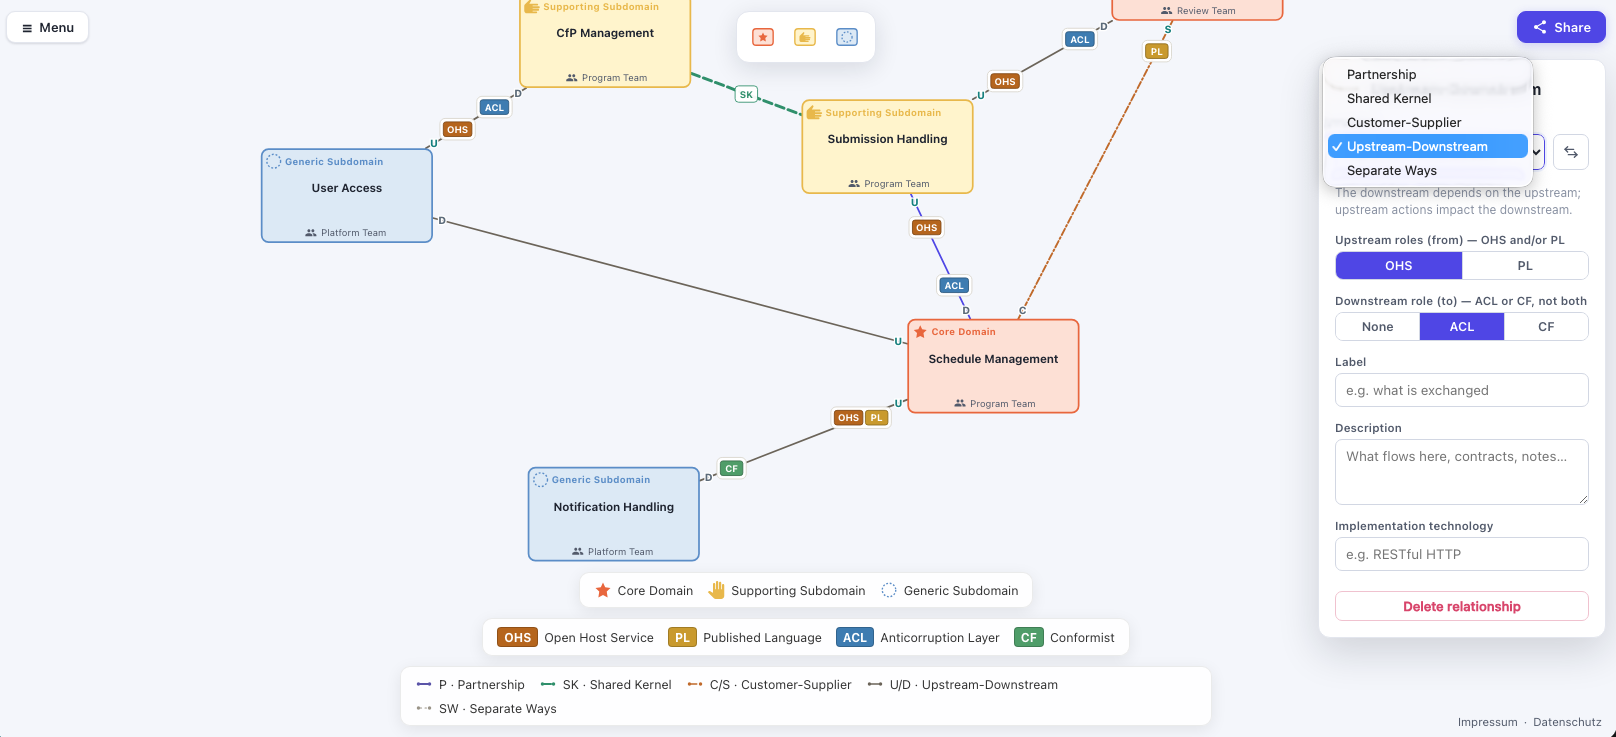
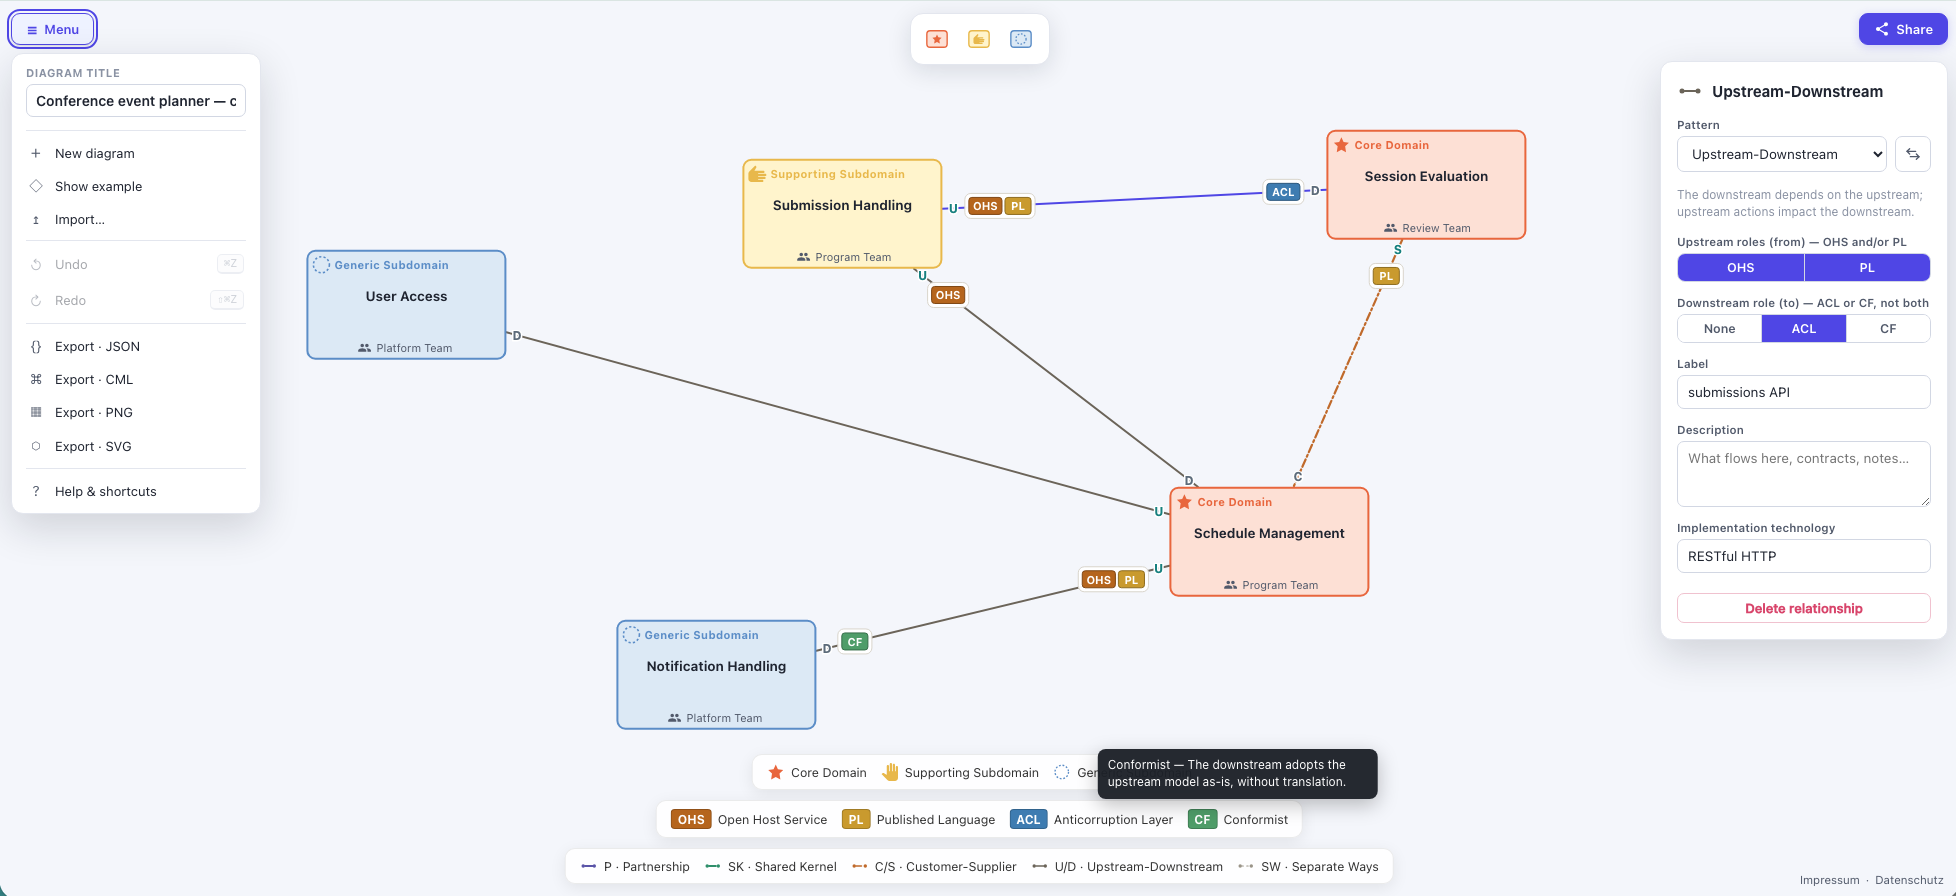
fix: draw line between components (#6)

diff --git a/e2e/tests/connect-after-reload.spec.ts b/e2e/tests/connect-after-reload.spec.ts
@@ -1,0 +1,68 @@
+import { test, expect } from "@playwright/test";
+
+// A share URL / saved file can contain relationships whose ids came from
+// diagram-js' session id counter (`connection_N`) of an earlier session. After
+// a reload that counter restarts, so drawing a new relationship used to
+// re-generate one of the imported ids — the create command died with
+// "element <connection_N> already exists" and the just-drawn line silently
+// vanished on release (regression).
+const DOC = {
+  version: 1,
+  title: "t",
+  contexts: [
+    { id: "a", label: "A", position: { x: 100, y: 100 }, size: { width: 200, height: 110 } },
+    { id: "b", label: "B", position: { x: 620, y: 100 }, size: { width: 200, height: 110 } },
+    { id: "c", label: "C", position: { x: 100, y: 400 }, size: { width: 200, height: 110 } },
+    { id: "d", label: "D", position: { x: 620, y: 400 }, size: { width: 200, height: 110 } },
+  ],
+  // cover the counter range a fresh session starts generating from (the first
+  // drawn connection used to get `connection_13`), one relationship per pair
+  relationships: [
+    { id: "connection_12", from: "c", to: "d", pattern: "upstream-downstream" },
+    { id: "connection_13", from: "a", to: "b", pattern: "upstream-downstream" },
+    { id: "connection_14", from: "a", to: "c", pattern: "upstream-downstream" },
+    { id: "connection_15", from: "b", to: "d", pattern: "upstream-downstream" },
+  ],
+};
+
+test("drawing a connection in a reloaded document with counter-style ids", async ({ page }) => {
+  await page.goto("/");
+  await page.waitForFunction(() => "__cmModeler" in window);
+  await page.evaluate(
+    (doc) =>
+      (
+        window as unknown as { __cmModeler: { importDocument(d: unknown): unknown } }
+      ).__cmModeler.importDocument(doc),
+    DOC,
+  );
+
+  const a = (await page.locator('.tt-canvas [data-element-id="a"]').boundingBox())!;
+  await page.mouse.click(a.x + a.width / 2, a.y + a.height / 2);
+  const handle = page.locator('.cm-connect-handle[data-side="bottom"]');
+  await expect(handle).toBeVisible();
+  const hb = (await handle.boundingBox())!;
+  const d = (await page.locator('.tt-canvas [data-element-id="d"]').boundingBox())!;
+  const tx = d.x + d.width / 2;
+  const ty = d.y + d.height / 2;
+
+  await page.mouse.move(hb.x + hb.width / 2, hb.y + hb.height / 2);
+  await page.mouse.down();
+  await page.mouse.move((hb.x + tx) / 2, (hb.y + ty) / 2, { steps: 6 });
+  await page.mouse.move(tx, ty, { steps: 6 });
+  await page.mouse.up();
+
+  const rels = await page.evaluate(
+    () =>
+      (
+        window as unknown as {
+          __cmModeler: {
+            exportDocument(): { relationships: Array<{ id: string; from: string; to: string }> };
+          };
+        }
+      ).__cmModeler.exportDocument().relationships,
+  );
+  expect(rels).toHaveLength(5);
+  const created = rels.find((r) => r.from === "a" && r.to === "d")!;
+  expect(created).toBeDefined();
+  expect(created.id).toMatch(/^rel_/);
+});

diff --git a/e2e/tests/connect-over-legend.spec.ts b/e2e/tests/connect-over-legend.spec.ts
@@ -1,0 +1,64 @@
+import { test, expect } from "@playwright/test";
+
+// The legend boxes float above the bottom of the map. Releasing a connect drag
+// on a context that sits BEHIND them must still draw the relationship
+// (regression: the legend swallowed the hover, `connect.out` reset the drop
+// target, and the line silently vanished on release).
+const DOC = {
+  version: 1,
+  title: "t",
+  contexts: [
+    { id: "a", label: "A", position: { x: 100, y: 80 }, size: { width: 240, height: 140 } },
+    { id: "b", label: "B", position: { x: 480, y: 520 }, size: { width: 240, height: 130 } },
+  ],
+  relationships: [],
+};
+
+test("connect drag released on a context behind the legend draws the line", async ({ page }) => {
+  await page.goto("/");
+  await page.waitForFunction(() => "__cmModeler" in window);
+  await page.evaluate(
+    (doc) =>
+      (
+        window as unknown as { __cmModeler: { importDocument(d: unknown): unknown } }
+      ).__cmModeler.importDocument(doc),
+    DOC,
+  );
+
+  // the drop point (centre of B) must actually be covered by the legend,
+  // otherwise this test does not exercise the regression
+  const b = (await page.locator('.tt-canvas [data-element-id="b"]').boundingBox())!;
+  const tx = b.x + b.width / 2;
+  const ty = b.y + b.height / 2;
+  const legend = (await page.locator(".cm-legends").boundingBox())!;
+  expect(ty).toBeGreaterThan(legend.y);
+
+  const a = (await page.locator('.tt-canvas [data-element-id="a"]').boundingBox())!;
+  await page.mouse.click(a.x + a.width / 2, a.y + a.height / 2);
+  const handle = page.locator('.cm-connect-handle[data-side="bottom"]');
+  await expect(handle).toBeVisible();
+  const hb = (await handle.boundingBox())!;
+
+  await page.mouse.move(hb.x + hb.width / 2, hb.y + hb.height / 2);
+  await page.mouse.down();
+  await page.mouse.move((hb.x + tx) / 2, (hb.y + ty) / 2, { steps: 6 });
+  await page.mouse.move(tx, ty, { steps: 6 });
+  await page.mouse.up();
+
+  const rels = await page.evaluate(
+    () =>
+      (
+        window as unknown as {
+          __cmModeler: { exportDocument(): { relationships: Array<Record<string, unknown>> } };
+        }
+      ).__cmModeler.exportDocument().relationships,
+  );
+  expect(rels).toHaveLength(1);
+  expect(rels[0]).toMatchObject({ from: "a", to: "b", pattern: "upstream-downstream" });
+
+  // outside a drag the legend is interactive again (hover tooltips)
+  const pointerEvents = await page.evaluate(
+    () => getComputedStyle(document.querySelector(".cm-legends")!).pointerEvents,
+  );
+  expect(pointerEvents).not.toBe("none");
+});

diff --git a/packages/renderer/src/model/CmDiagramElementFactory.ts b/packages/renderer/src/model/CmDiagramElementFactory.ts
@@ -1,0 +1,29 @@
+/**
+ * Element factory that assigns model-style random ids (`ctx_…`, `rel_…`) when
+ * none is provided. diagram-js' stock factory numbers elements with a session
+ * counter that restarts on every page load and is never advanced past ids
+ * arriving via import — after a reload, drawing a connection would re-generate
+ * an id already taken by an imported relationship (e.g. `connection_13`) and
+ * the create command would die with "element already exists", silently
+ * dropping the just-drawn line.
+ */
+
+import ElementFactory from "diagram-js/lib/core/ElementFactory";
+import type { Connection, Label, Root, Shape } from "diagram-js/lib/model/Types";
+import { newId } from "@miragon/context-maps-schema-model";
+
+export default class CmDiagramElementFactory extends ElementFactory {
+  override create(type: "root", attrs?: Partial<Root>): Root;
+  override create(type: "shape", attrs?: Partial<Shape>): Shape;
+  override create(type: "connection", attrs?: Partial<Connection>): Connection;
+  override create(type: "label", attrs?: Partial<Label>): Label;
+  override create(
+    type: "root" | "shape" | "connection" | "label",
+    attrs?: Partial<Root | Shape | Connection | Label>,
+  ): Root | Shape | Connection | Label {
+    if (!attrs?.id && (type === "shape" || type === "connection")) {
+      attrs = { ...attrs, id: newId(type === "shape" ? "ctx" : "rel") };
+    }
+    return super.create(type as "shape", attrs as Partial<Shape>);
+  }
+}

diff --git a/e2e/tests/connect-gesture.spec.ts b/e2e/tests/connect-gesture.spec.ts
@@ -21,7 +21,9 @@ async function setup(page: import("@playwright/test").Page) {
   await page.waitForFunction(() => "__cmModeler" in window);
   await page.evaluate(
     (doc) =>
-      (window as unknown as { __cmModeler: { importDocument(d: unknown): unknown } }).__cmModeler.importDocument(doc),
+      (
+        window as unknown as { __cmModeler: { importDocument(d: unknown): unknown } }
+      ).__cmModeler.importDocument(doc),
     DOC,
   );
 }
@@ -29,10 +31,14 @@ async function setup(page: import("@playwright/test").Page) {
 const rels = (page: import("@playwright/test").Page) =>
   page.evaluate(
     () =>
-      (window as unknown as { __cmModeler: { exportDocument(): { relationships: unknown[] } } }).__cmModeler.exportDocument().relationships,
+      (
+        window as unknown as { __cmModeler: { exportDocument(): { relationships: unknown[] } } }
+      ).__cmModeler.exportDocument().relationships,
   );
 
-test("full user gesture: click-select, press handle, release over free component", async ({ page }) => {
+test("full user gesture: click-select, press handle, release over free component", async ({
+  page,
+}) => {
   await setup(page);
   // real click on A to select it
   const a = (await page.locator('.tt-canvas [data-element-id="a"]').boundingBox())!;
@@ -63,7 +69,7 @@ test("full user gesture: click-select, press handle, release over free component
     return (m.get("selection") as { get(): Array<{ id: string }> }).get().map((s) => s.id);
   });
   expect(selected).toHaveLength(1);
-  expect(String(selected[0])).toContain("connection");
+  expect(String(selected[0])).toMatch(/^rel_/);
   await expect(page.locator(".tt-inspector")).toBeVisible();
 });
 

diff --git a/packages/renderer/test/browser/connect-handles.test.ts b/packages/renderer/test/browser/connect-handles.test.ts
@@ -24,9 +24,11 @@ test("a selected context shows four connect handles that draw a relationship", (
     );
     const canvas = modeler.get<{ getGraphics(el: unknown): SVGElement }>("canvas");
     const eventBus = modeler.get<{ createEvent(data: unknown): Event }>("eventBus");
-    const dragging = modeler.get<{ hover(event: Event): void; move(event: Event): void; end(): void }>(
-      "dragging",
-    );
+    const dragging = modeler.get<{
+      hover(event: Event): void;
+      move(event: Event): void;
+      end(): void;
+    }>("dragging");
     const [a, b] = registry.getAll().filter(isCmContext);
 
     // no selection → no handles
@@ -56,6 +58,9 @@ test("a selected context shows four connect handles that draw a relationship", (
     const exported = modeler.exportDocument();
     expect(exported.relationships).toHaveLength(1);
     expect(exported.relationships[0]).toMatchObject({ from: "a", to: "b" });
+    // model-style random id, NOT diagram-js' session counter (`connection_N`) —
+    // the counter restarts on reload and collides with re-imported ids
+    expect(exported.relationships[0].id).toMatch(/^rel_/);
 
     // deselect → handles disappear
     selection.select(null as unknown as object);

diff --git a/packages/renderer/src/model/CmElementFactory.ts b/packages/renderer/src/model/CmElementFactory.ts
@@ -6,7 +6,7 @@
 
 import type ElementFactory from "diagram-js/lib/core/ElementFactory";
 import type { Point } from "diagram-js/lib/util/Types";
-import { SUBDOMAIN_TYPE_SPECS, newId } from "@miragon/context-maps-schema-model";
+import { SUBDOMAIN_TYPE_SPECS } from "@miragon/context-maps-schema-model";
 import type {
   BoundedContext,
   Relationship,
@@ -63,15 +63,12 @@ export default class CmElementFactory {
 
   // --- fresh, not-yet-placed elements (palette / context-pad create) -----
   //
-  // These set an explicit model-style id (`ctx_…`/`rel_…`, matching the model
-  // package's factory) instead of diagram-js' auto-id, whose counter is not
-  // advanced past ids that arrive via import — so a re-imported element would
-  // otherwise collide with the next palette create after a reload.
+  // No explicit id: the element factory (CmDiagramElementFactory) assigns a
+  // collision-free model-style id (`ctx_…`).
 
   createNewContext(subdomainType: SubdomainType, label?: string): CmContext {
     const spec = SUBDOMAIN_TYPE_SPECS[subdomainType];
     return this.elementFactory.createShape({
-      id: newId("ctx"),
       width: spec.defaultSize.width,
       height: spec.defaultSize.height,
       cmKind: "context",

diff --git a/packages/renderer/src/model/index.ts b/packages/renderer/src/model/index.ts
@@ -1,18 +1,23 @@
 import type { ModuleDeclaration } from "didi";
 import CroppingConnectionDocking from "diagram-js/lib/layout/CroppingConnectionDocking";
 import CmElementFactory from "./CmElementFactory.js";
+import CmDiagramElementFactory from "./CmDiagramElementFactory.js";
 
 /**
  * Element factory with Context Maps defaults, plus the cropping docking so
  * relationship lines dock to the context box borders. The layouter itself is
  * bound in the modeling module (see there) because diagram-js' ModelingModule
- * binds a default `layouter` and loads after this one.
+ * binds a default `layouter` and loads after this one. The stock
+ * `elementFactory` is replaced so every element gets a collision-free id
+ * (see CmDiagramElementFactory).
  */
 export const cmModelModule: ModuleDeclaration = {
+  elementFactory: ["type", CmDiagramElementFactory],
   cmElementFactory: ["type", CmElementFactory],
   connectionDocking: ["type", CroppingConnectionDocking],
 };
 
 export { default as CmElementFactory } from "./CmElementFactory.js";
+export { default as CmDiagramElementFactory } from "./CmDiagramElementFactory.js";
 export { default as CmLayouter } from "./CmLayouter.js";
 export * from "./di-types.js";

diff --git a/apps/webapp/src/styles/app.css b/apps/webapp/src/styles/app.css
@@ -724,6 +724,12 @@ kbd {
 }
 
 /* Three separate legend boxes next to the map (subdomains / direction / roles) */
+/* While a drag is in flight (`cm-dragging` on the canvas container), the
+   legends float above the map but must not swallow the pointer — releasing a
+   connect drag on a context behind them has to reach that context. */
+.tt-app:has(.cm-dragging) .cm-legends {
+  pointer-events: none;
+}
 .cm-legends {
   position: absolute;
   left: 50%;